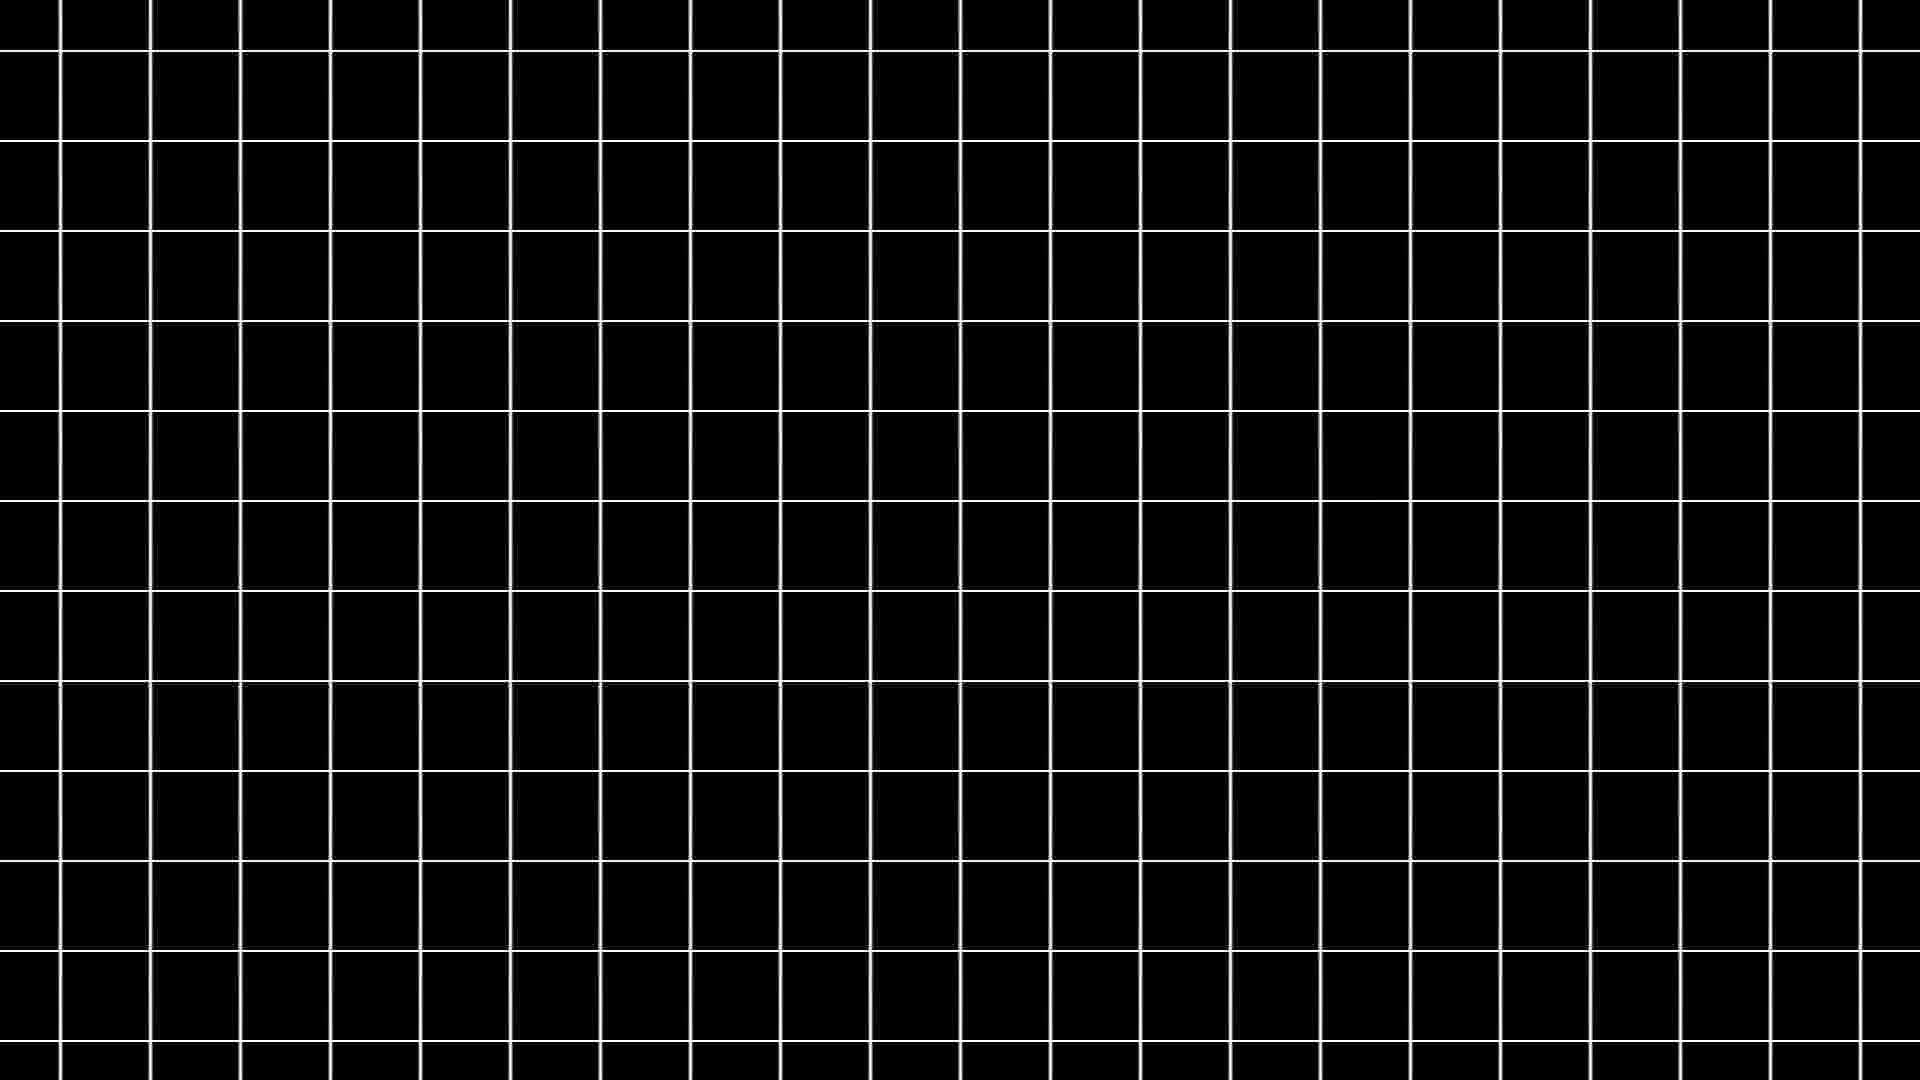
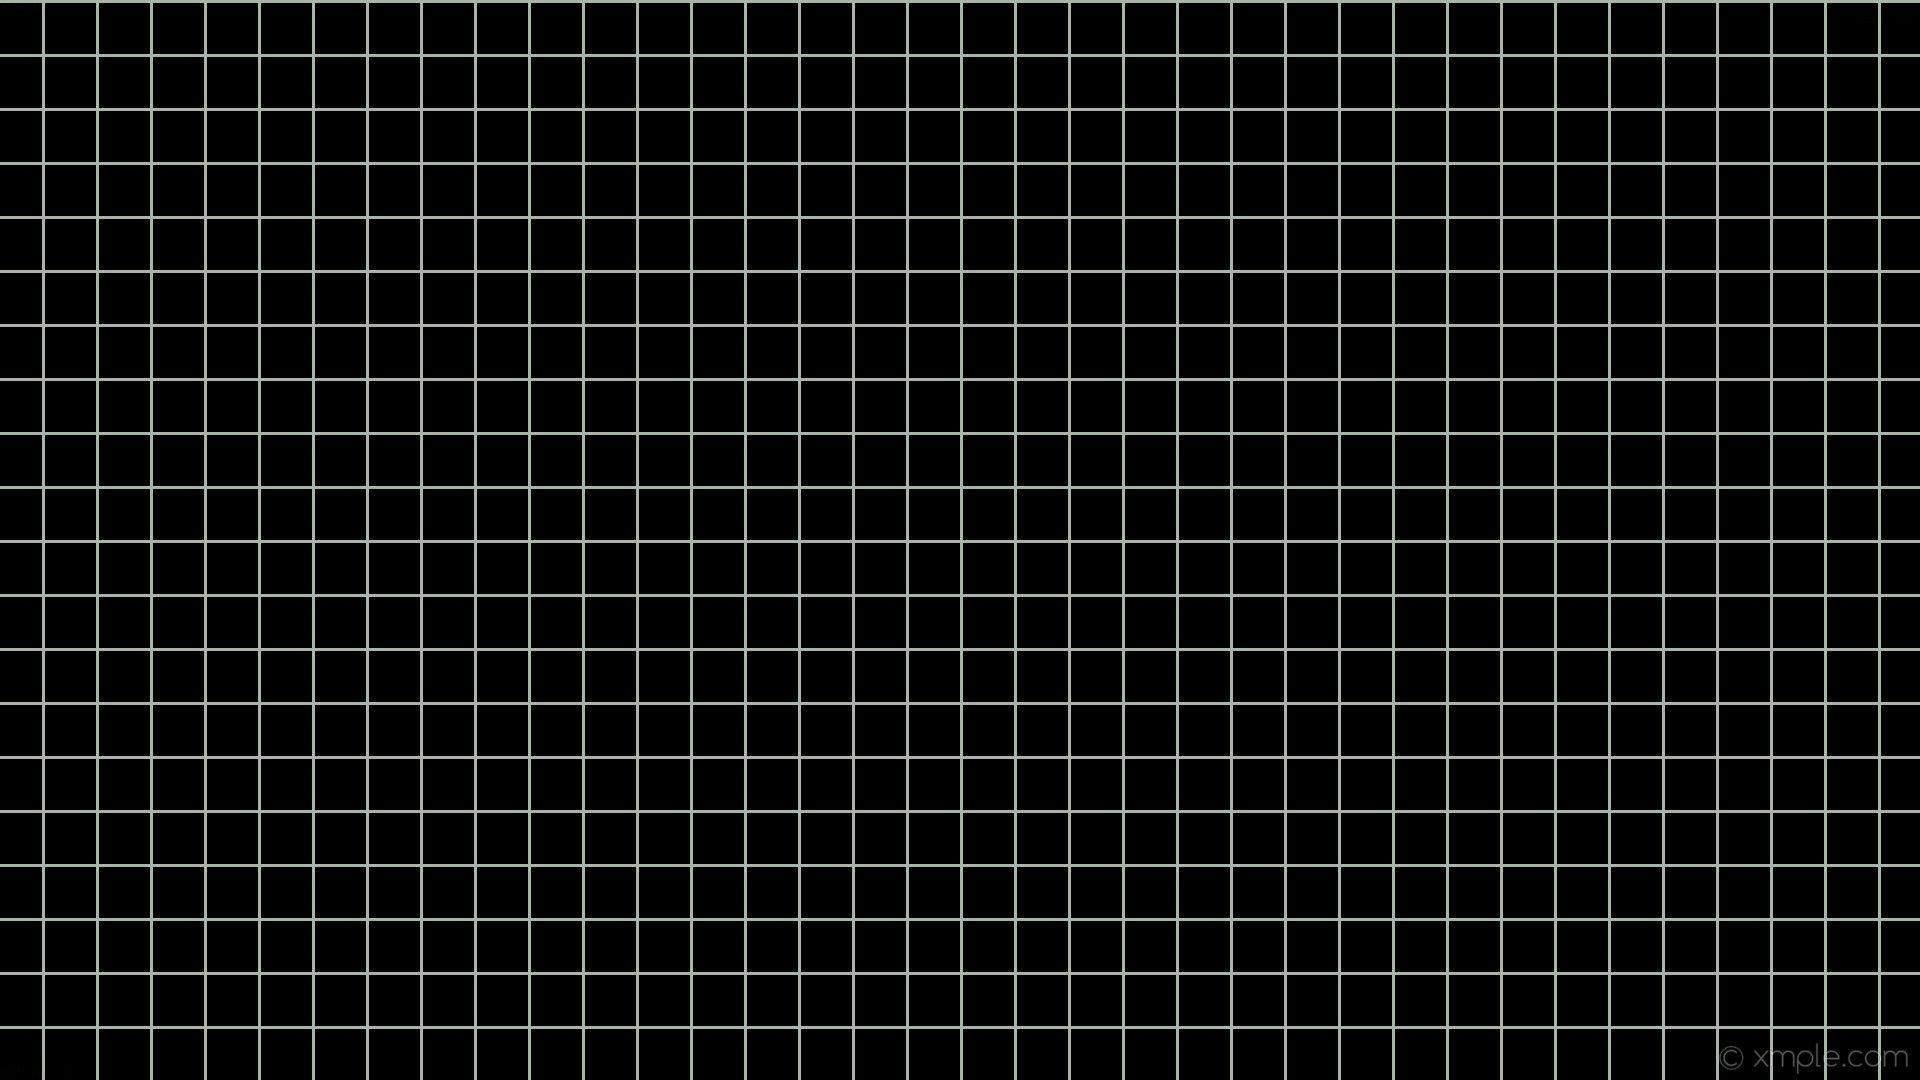
add navigation bar

Changed region(s): [[0.0, 0.0, 1.0, 1.0]]

diff --git a/styles.css b/styles.css
@@ -1,12 +1,59 @@
-html, body {
+*{
     margin: 0;
-    width: 100%;
-    height: 100%;
+    padding: 0;
+    box-sizing: border-box;
+    font-family: 'Segoe UI', 'Segoe UI', Tahoma, Geneva, Verdana, sans-serif;
+    scroll-behavior: smooth;
 }
+
 body{
-    /*background-color: black;*/
-    background-image: url("img/bg.jpg");
-    background-size: cover;
-    background-position: center;
-    background-repeat: no-repeat;
+    min-height: 100vh;
+    background: linear-gradient(153deg, #667eea, #764ba2);
+    color: #fff;
+    overflow-x: hidden;
+}
+header{
+    padding: 20px 8%;
+}
+.navbar{
+    display: flex;
+    justify-content: space-between;
+    align-items: center;
+}
+
+.nav-links{
+    display: flex;
+    gap: 30px;
+    list-style: none;
+}
+
+.nav-links a{
+    color: #fff;
+    text-decoration: none;
+    transition: 0.3s;
+}
+
+.nav-links a:hover{
+    opacity: 0.7;
+}
+
+
+.nav-actions{
+    display: flex;
+    gap: 15px;
+    align-items: center;
+}
+
+#themeToggle{
+    background: none;
+    border: none;
+    font-size: 18px;
+    cursor: pointer;
+    color: #fff;
+}
+
+.hamburger{
+    display: none;
+    font-size: 22px;
+    cursor: pointer;
 }

diff --git a/index.html b/index.html
@@ -2,11 +2,32 @@
 <html>
     <head>
         <meta name="viewport" content="width=device-width", initial-scale="1">
-        <link rel="stylesheet" href="styles.css"
+        <link rel="stylesheet" href="styles.css">
     </head>
     <body>
-        <div class="bg">
-            this is test
-        </div>
+        <!--Blob style-->
+        <div class="blob blob1"></div>
+        <div class="blob blob2"></div>
+        <!--Navbar-->
+        <header>
+            <nav class="navbar glass">
+                <h2 class="logo">
+                    Precious
+                </h2>
+                <ul class="nav-links" id="navLinks">
+                    <li><a>About</a></li>
+                    <li><a>Projects</a></li>
+                    <li><a>Skills</a></li>
+                    <li><a>Contacts</a></li>
+                </ul>
+                <div class="nav-actions">
+                    <button id="themeToggle">🌙</button>
+                    <div class="hamburger" id="hamburger">
+                        &#9776;
+                    </div>
+                </div>
+            </nav>
+        </header>
+    </body>
     </body>
 </html>
